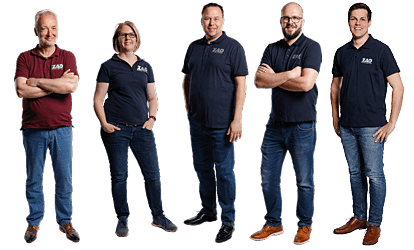
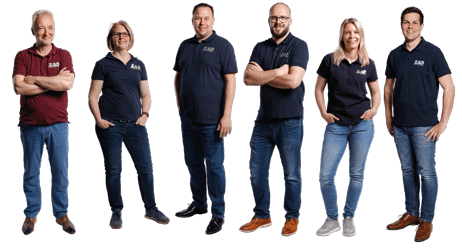
neue Fotos

diff --git a/pages/unternehmen.js b/pages/unternehmen.js
@@ -238,7 +238,7 @@ function Unternehmen() {
         <Image
           src={"/images/unternehmen/team_pflegeabrechnung.png"}
           alt="Team Pflegeabrechnung"
-          width={1248}
+          width={1243}
           height={250}
         />
       </div>
@@ -248,7 +248,7 @@ function Unternehmen() {
           src={"/images/unternehmen/team_krankentransport.png"}
           alt="Team Krankentransportabrechnung"
           width={1099}
-          height={250}
+          height={252}
         />
       </div>
       <div className="text-center mx-auto mt-24  px-4 md:px-16 lg:px-0">
@@ -256,7 +256,7 @@ function Unternehmen() {
         <Image
           src={"/images/unternehmen/team_vertrieb.png"}
           alt="Team Vertrieb"
-          width={414}
+          width={462}
           height={250}
         />
       </div>

diff --git a/components/teamData.js b/components/teamData.js
@@ -167,6 +167,14 @@ const teamData = {
       image: "manteufel_1",
       imageHover: "manteufel_2",
     },
+    {
+      name: "Jennifer Zinnecker",
+      title: "Zentrale",
+      phone: "05551 / 96 88-769",
+      fax: "05551 / 96 88-655",
+      image: "zinnecker_1",
+      imageHover: "zinnecker_2",
+    },
   ],
 };
 

diff --git a/pages/stellenangebote.js b/pages/stellenangebote.js
@@ -49,7 +49,7 @@ function Stellenangebote() {
             <Image
               src="/images/unternehmen/teamfoto.png"
               className=" object-cover rounded "
-              width={1400}
+              width={1393}
               height={334}
               objectFit="cover"
             />
